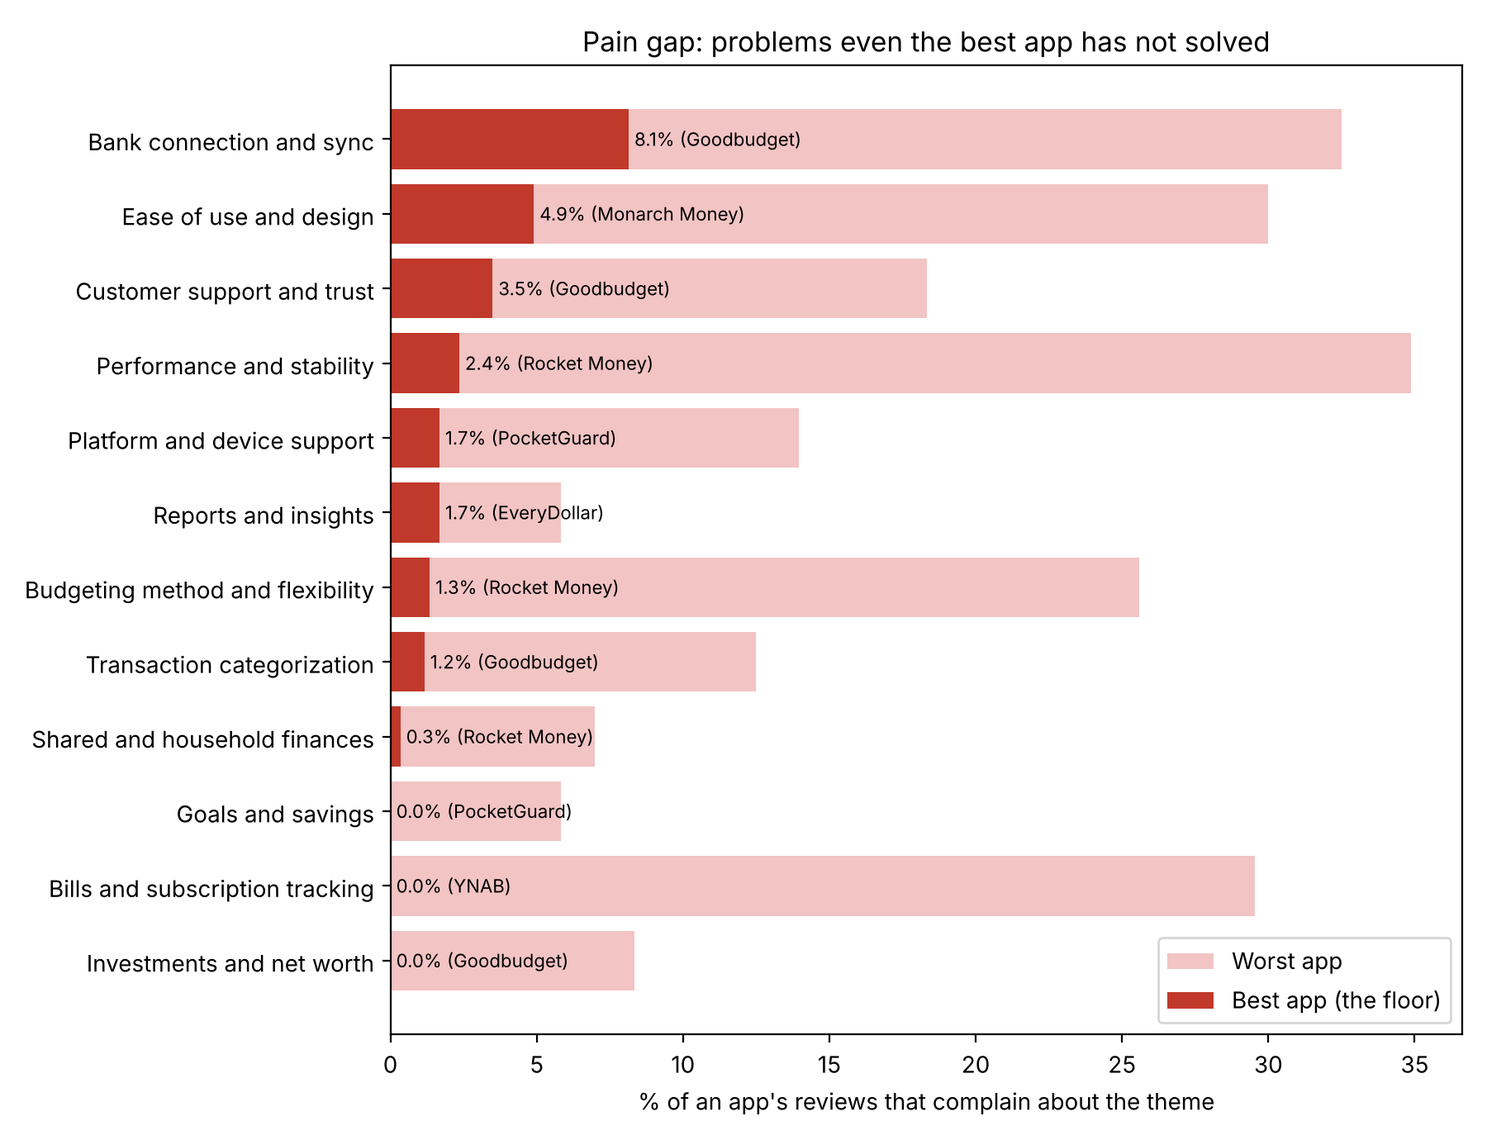
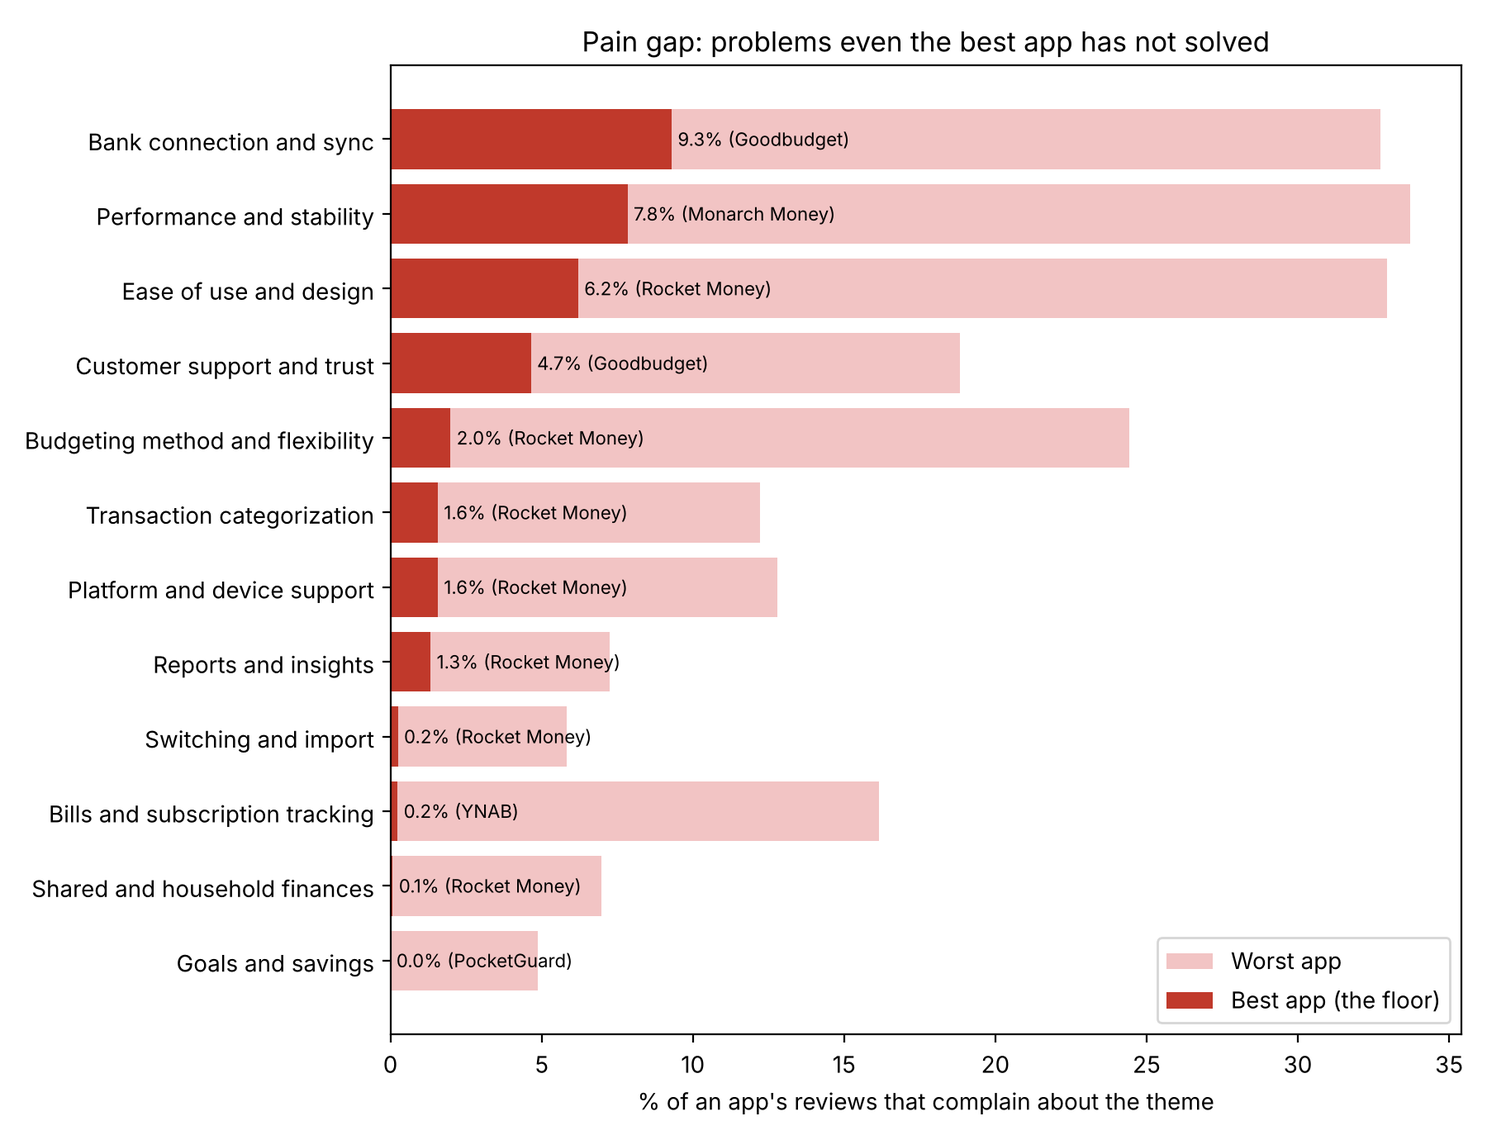
Update report with 3,392 tagged reviews and resume support
The full tagging run stopped after $6.09 when the API account ran out of
credit, leaving 2,550 API-tagged reviews. These are merged with the
in-session sample (3,392 total); 448 reviews tagged both ways give the
agreement rates now in the report. The analyze workflow now resumes from
earlier tags, and the reliability report no longer crashes when its
input is missing.

diff --git a/pipeline/reliability.py b/pipeline/reliability.py
@@ -35,6 +35,9 @@ def cohen_kappa(a: list[str], b: list[str]) -> float:
 
 
 def report() -> dict:
+    if not config.CHECK_FILE.exists():
+        print(f"No reliability tags in {config.CHECK_FILE.name} yet; nothing to compare.")
+        return {}
     p = read_jsonl(config.TAGS_FILE).set_index("review_id")
     c = read_jsonl(config.CHECK_FILE).set_index("review_id")
     both = p.join(c, lsuffix="_a", rsuffix="_b", how="inner")

diff --git a/reports/REPORT.md b/reports/REPORT.md
@@ -1,15 +1,15 @@
 # State of Budgeting Apps: what users still can't get, from 8 apps' reviews
 
-*4 November 2026. 7,396 App Store and Google Play reviews scraped for 8 budgeting apps (5 Nov 2025 to 3 Nov 2026). 1,290 of them were tagged, sampled across all 8 apps.*
+*4 November 2026. 7,396 App Store and Google Play reviews scraped for 8 budgeting apps (5 Nov 2025 to 3 Nov 2026). 3,392 of them were tagged.*
 
 ## Summary
 
-1. **Broken bank sync is the problem no app has solved.** It's the only theme complained about in more than 5% of reviews for every one of the 8 apps. The median is 15.5% of an app's reviews, ranging from 8.1% for Goodbudget, which is mostly manual entry, to 32.5% for Simplifi. Reviews that mention sync average 2.5 stars, against 3.3 for the rest.
-2. **Updates are breaking long-time users' routines.** 104 complaint reviews (8% of all tagged) blame a recent update or redesign. Examples are extra taps in YNAB, EveryDollar locking past months, and envelope totals breaking in Goodbudget. Long-time users are among the unhappiest: 64% of their reviews are complaints.
-3. **Users can't reach a human for support.** Support and trust complaints exceed 5% in 7 of 8 apps. Users mostly ask for a real person, not a chatbot, when money or data is at stake.
-4. **App-specific gaps sit on top of that.** Rocket Money's subscription cancelling underdelivers (29.5% of its reviews). EveryDollar and Goodbudget have budgeting-logic problems (21% and 26%). YNAB's changes to its interface draw complaints in 30% of its reviews.
+1. **Broken bank sync is the problem no app has solved.** It's the only theme in the top four for all 8 apps, and it's above 5% of reviews in every one. The median is 16.7% of an app's reviews, ranging from 9.3% for Goodbudget, which is mostly manual entry, to 32.7% for Simplifi. One review in five (676 of 3,392) is about sync, and those reviews average 2.5 stars against 3.4 for the rest.
+2. **Updates are breaking long-time users' routines.** 257 complaint reviews (7.6%) blame a recent update or redesign. They cluster in YNAB (72), EveryDollar (62) and Monarch (43). Ease-of-use complaints reach 32.9% of YNAB's reviews.
+3. **Users can't reach a human for support.** Support and trust complaints exceed 5% in 7 of 8 apps, and reach 18.8% for PocketGuard and Simplifi. The recurring ask is a real person, not a chatbot.
+4. **App-specific gaps sit on top of that.** Rocket Money's subscription cancelling underdelivers (16.2% of its reviews). Goodbudget and EveryDollar have bugs and budget-math problems (33.7% and 21.2% performance complaints). Copilot is iOS only.
 
-**Product bet: sync you can trust.** Warn users the moment a connection fails. Refill missing history after a reconnect. Remove duplicates automatically. And be honest about which banks work before people pay. It's the one gap every app shares, and much of the duplicate, missing-data and wrong-balance trouble traces back to it.
+**Product bet: sync you can trust.** Warn users the moment a connection fails. Refill missing history after a reconnect. Remove duplicates automatically. And say up front which banks work. It's the one gap every app shares, and much of the duplicate, missing-data and wrong-balance trouble traces back to it.
 
 *Pricing is left out on purpose. Price complaints appear for every paid app and don't point to a product gap. They are kept in the tags but excluded from the rankings and charts.*
 
@@ -17,27 +17,28 @@
 
 | App | Reviews scraped | Tagged | Avg rating (tagged) | Share of tagged that are pain |
 |---|---|---|---|---|
-| Monarch Money | 1,402 | 306 | 3.61 | 48% |
-| Rocket Money | 3,000 | 298 | 2.60 | 71% |
-| Copilot Money (iOS only) | 495 | 120 | 3.73 | 53% |
-| YNAB | 1,003 | 120 | 3.29 | 59% |
-| EveryDollar | 796 | 120 | 3.14 | 62% |
-| Simplifi by Quicken | 410 | 120 | 2.47 | 76% |
-| PocketGuard | 204 | 120 | 2.98 | 63% |
-| Goodbudget | 86 | 86 | 2.78 | 76% |
-| **Total** | **7,396** | **1,290** | | **62%** |
+| Rocket Money | 3,000 | 1,207 | 3.22 | 52% |
+| Monarch Money | 1,402 | 689 | 3.43 | 53% |
+| YNAB | 1,003 | 422 | 3.20 | 60% |
+| EveryDollar | 796 | 349 | 3.26 | 61% |
+| Copilot Money (iOS only) | 495 | 262 | 3.71 | 50% |
+| Simplifi by Quicken | 410 | 223 | 2.62 | 74% |
+| PocketGuard | 204 | 154 | 2.98 | 64% |
+| Goodbudget | 86 | 86 | 2.78 | 74% |
+| **Total** | **7,396** | **3,392** | | **57%** |
+
+Of the tagged reviews, 1,783 are from Google Play and 1,609 from the App Store.
 
 **Pain rate by theme:** the share of an app's tagged reviews that are negative or mixed about a theme, or report a bug, a missing feature or a complaint there.
 
 | Theme | Copilot | EveryDollar | Goodbudget | Monarch | PocketGuard | Rocket | Simplifi | YNAB | Median |
 |---|---|---|---|---|---|---|---|---|---|
-| **Bank connection and sync** | 19.2% | 12.5% | 8.1% | 17.6% | 26.7% | 9.4% | **32.5%** | 13.3% | **15.5%** |
-| Customer support and trust | 12.5% | 5.8% | 3.5% | 8.8% | **18.3%** | 15.1% | 15.8% | 6.7% | 10.7% |
-| Ease of use and design | 9.2% | 9.2% | 10.5% | 4.9% | 6.7% | 9.7% | 8.3% | **30.0%** | 9.2% |
-| Performance and stability | 11.7% | 7.5% | **34.9%** | 6.5% | 6.7% | 2.3% | 8.3% | 7.5% | 7.5% |
-| Budgeting method | 5.0% | 20.8% | **25.6%** | 5.2% | 5.8% | 1.3% | 7.5% | 12.5% | 6.7% |
-| Platform and devices | 5.0% | 10.8% | 14.0% | 4.6% | 1.7% | 3.0% | 9.2% | 5.0% | 5.0% |
-| Bills and subscriptions | 1.7% | 3.3% | 1.2% | 1.6% | 1.7% | **29.5%** | 10.8% | 0.0% | 1.7% |
+| **Bank connection and sync** | 20.2% | 13.2% | 9.3% | 19.4% | **27.9%** | 11.4% | **32.7%** | 14.0% | **16.7%** |
+| Ease of use and design | 11.5% | 14.6% | 15.1% | 6.4% | 8.4% | 6.2% | 11.2% | **32.9%** | 11.4% |
+| Customer support and trust | 12.2% | 8.0% | 4.7% | 10.3% | **18.8%** | 15.4% | **18.8%** | 9.5% | 11.3% |
+| Performance and stability | 9.9% | 21.2% | **33.7%** | 7.8% | 10.4% | 8.3% | 15.7% | 11.6% | 11.0% |
+| Budgeting method | 6.1% | 15.5% | **24.4%** | 5.1% | 4.5% | 2.0% | 7.2% | 9.5% | 6.7% |
+| Bills and subscriptions | 3.1% | 1.7% | 1.2% | 2.3% | 1.3% | **16.2%** | 9.4% | 0.2% | 2.0% |
 
 Charts: `figures/pain_gap.png`, `figures/heatmap.png`. Tables: `pain_gap.csv`, `theme_by_app.csv`.
 
@@ -45,7 +46,7 @@ Charts: `figures/pain_gap.png`, `figures/heatmap.png`. Tables: `pain_gap.csv`, `
 
 ### 1. Bank sync, the floor no one has fixed
 
-250 of the 1,290 tagged reviews (19%) are about bank connections. The complaints repeat across apps: accounts silently disconnect, transactions arrive days late or not at all, reconnecting creates duplicates or wipes history, and some banks just aren't supported. 19 of the sync complaints say the app blamed Plaid, a third party or a "known issue".
+The complaints repeat across apps: accounts silently disconnect, transactions arrive days late or not at all, reconnecting creates duplicates or wipes history, and some banks aren't supported at all. Several reviews say support blamed Plaid, a third party or a "known issue".
 
 - "The team unfortunately never advises customers that they are having issues" (PocketGuard, `pocketguard:a:14485863334`)
 - "No notice in the app that it happened" (Copilot, `copilot:a:14709853188`)
@@ -63,51 +64,49 @@ Charts: `figures/pain_gap.png`, `figures/heatmap.png`. Tables: `pain_gap.csv`, `
 - refill the gap after I reconnect
 - remove duplicates for me
 - tell me before I pay whether my bank, credit union, Venmo, Cash App or store card works
-- support non-US banks and multiple currencies, which international users ask for in 18 reviews
+- support non-US banks and multiple currencies
 
 ### 2. Updates that break what worked
-
-Every app has some reviews like this, but they cluster in YNAB (25 of 120 tagged), EveryDollar (17) and Goodbudget (15 of 86).
 
 - "More scrolling and more taps for what used to take one tap" (YNAB, `ynab:a:14158438732`)
 - "locked out their customers from their OWN budgets with their latest update" (EveryDollar, `everydollar:g:762973c6-7716-44ad-9f0b-f0239202fa9b`)
 - "But since it's last upgrade nothing works" (Goodbudget, `goodbudget:g:27a0cf11-aa5d-4792-b32c-9764d74a8c51`)
 - "Why release an update when 2/3 of the tools aren’t even completed?" (PocketGuard, `pocketguard:a:14453021311`)
 
-**The unmet need:** stability for loyal users. That means testing before release, a way to keep the old layout, and no locking of data the user still wants to edit. EveryDollar's past-month lock alone produced 8 requests to "edit past months".
+**The unmet need:** stability for loyal users. That means testing before release, a way to keep the old layout, and no locking of data the user still wants to edit.
 
 ### 3. Support that can't escalate
 
 - "a Chatbot is not enough to help me" (Simplifi, `simplifi:a:14667818169`)
 
-When a bank link or the budget's numbers break, users want a ticket that a person actually picks up. Requests for "human support" come from 6 of the 8 apps.
+When a bank link or the budget's numbers break, users want a ticket that a person actually picks up.
 
 ### 4. App-specific gaps
 
-- **Rocket Money:** subscription detection and cancellation miss many subscriptions (29.5%). The top requests are "working subscription cancellation" (19) and "detect all subscriptions" (12).
-- **EveryDollar and Goodbudget:** problems with budget logic and envelope math. Examples: savings that don't reduce what's left to spend, totals that don't add up, recurring items that can't be scheduled.
-- **YNAB:** churn in the interface (30% ease-of-use complaints). Users ask for the progress bars back and fewer taps.
+- **Rocket Money:** subscription detection and cancellation miss many subscriptions (16.2% overall; higher among App Store reviewers).
+- **Goodbudget and EveryDollar:** envelope totals and budget math break after updates, and EveryDollar's locked past months draw repeated complaints.
+- **YNAB:** churn in the interface (32.9% ease-of-use complaints). Users ask for the progress bars back and fewer taps.
 - **Copilot:** iOS only, and users ask for Android. It also has gaps tracking income categories and investment contributions.
 
 ### Who's happiest
 
-- **Copilot** has the highest average rating (3.73) and **Monarch** has the lowest share of complaints (48%).
-- **Former Mint users** (42 tagged reviews) still choose an app by comparing it with Mint. **Couples** (56) value shared budgets but ask for joint and individual views and per-person roles.
+Copilot has the highest average rating (3.71) and the lowest share of complaints (50%). Former Mint users and couples are the most vocal segments: Mint is still the benchmark they compare apps with, and couples want joint and individual views plus per-person roles.
 
 ## Method
 
-1. **Collection.** A GitHub Actions workflow (`.github/workflows/scrape.yml`) runs `pipeline.find_ids` and `pipeline.scrape` on a GitHub runner. That's needed because this cloud session can't reach the app stores. It pulled the Apple customer-reviews feed from 7 English-language storefronts and Google Play (en, US) for the last 12 months. Store IDs were checked by hand (`config/apps.json`) after the first run picked wrong Google Play packages. Cleaning removed duplicates and reviews under 20 characters, leaving 7,396 reviews.
-2. **Sample.** No Anthropic API key was available, so the full tagging run (`pipeline.tag`) couldn't run. Claude tagged a seeded random sample by reading each review in the working session: up to 120 reviews for each of six apps, all 86 for Goodbudget, and 60 Google Play reviews each for Monarch and Rocket Money. These were added to 484 App Store reviews tagged earlier for those two apps. Tags follow the frozen 15-theme codebook (`config/themes.json`) and the `pipeline.tag` schema.
-3. **Analysis.** `python -m pipeline.analyze`. Pricing and "other" are excluded from the rankings. Every quote was checked word for word against its source review.
+1. **Collection.** A GitHub Actions workflow (`.github/workflows/scrape.yml`) runs `pipeline.find_ids` and `pipeline.scrape` on a GitHub runner. That's needed because this cloud session can't reach the app stores. It pulled the Apple customer-reviews feed from 7 English-language storefronts and Google Play (en, US) for the last 12 months. Store IDs were checked by hand (`config/apps.json`). Cleaning removed duplicates and reviews under 20 characters, leaving 7,396 reviews.
+2. **Tagging.** 2,550 reviews were tagged by `pipeline.tag` with `claude-opus-5-5` in the `analyze.yml` workflow, at a cost of $6.09. The run stopped when the API account's credit ran out. Another 842 reviews come from a seeded sample that Claude tagged by reading each review in the working session. All tags use the frozen 15-theme codebook (`config/themes.json`). Where a review had both, the API tag is used.
+3. **Reliability.** 448 reviews were tagged both ways, independently. The two agree on primary theme 80% of the time (Cohen's kappa 0.78), on sentiment 94% (kappa 0.89) and on review type 90% (kappa 0.87). Kappa is agreement after removing what chance alone would give; above 0.6 counts as substantial and above 0.8 as almost perfect.
+4. **Analysis.** `python -m pipeline.analyze`. Pricing and "other" are excluded from the rankings. Every quote was checked word for word against its source review.
 
 ## Limits
 
-- **This is a sample.** Most apps have about 120 tagged reviews, so a rate like 15% carries a margin of roughly ±6 points. The pattern holds, since sync shows up in all 8 apps, but small gaps between apps don't mean much.
-- **Unequal samples.** Monarch and Rocket Money have more tagged reviews (306 and 298), mostly from the App Store. The other apps mix both stores.
-- **One tagger, no reliability check.** The second-model check (`pipeline.reliability`) needs an API key.
-- **Free sources cap volume.** Apple's feed returns at most about 500 reviews per storefront, and PocketGuard and Goodbudget had few reviews in the 12-month window.
+- **Not every review is tagged.** 3,392 of the 7,396 are, and Goodbudget (86) and PocketGuard (154) have small samples, so small gaps between apps don't mean much. The cross-app pattern holds: sync is above 5% in all 8 apps.
+- **Uneven samples.** Rocket Money makes up 36% of tagged reviews. Rates are calculated per app, so this doesn't skew comparisons between apps, but category-wide totals lean toward Rocket Money.
+- **No synthesis briefs.** The per-theme briefs from `pipeline.synthesize` didn't run because the credit ran out. The briefs above were written by hand from the tagged data.
+- **Free sources cap volume.** Apple's feed returns at most about 500 reviews per storefront.
 - **Review bias.** App-store reviewers lean toward the very unhappy and the very happy.
 
-## Full-scale run
+## To finish the full run
 
-Add `ANTHROPIC_API_KEY` as a secret in the GitHub repo, then run tagging, reliability and synthesis on all 7,396 reviews. That replaces the sample with full counts and adds an agreement rate you can quote.
+Add API credit, then re-run the "Tag and analyze all reviews" workflow. It keeps the 2,550 reviews already tagged and pays only for the other 4,846. At the rate seen so far that's about $12 for tagging, plus roughly $4 for the reliability check and synthesis.

diff --git a/reports/summary.md b/reports/summary.md
@@ -1,34 +1,34 @@
 # Summary numbers
 
-- Reviews analyzed: **1,290** across **8** apps (Copilot Money, EveryDollar, Goodbudget, Monarch Money, PocketGuard, Rocket Money, Simplifi by Quicken, YNAB)
+- Reviews analyzed: **3,392** across **8** apps (Copilot Money, EveryDollar, Goodbudget, Monarch Money, PocketGuard, Rocket Money, Simplifi by Quicken, YNAB)
 - Date range: 2025-11-05 to 2026-11-03
-- Stores: appstore 914, play 376
-- Pain reviews (negative/mixed, bug, request or complaint): 61.9%
+- Stores: play 1,783, appstore 1,609
+- Pain reviews (negative/mixed, bug, request or complaint): 56.5%
 
 ## Pain gap (sorted by the best app's complaint rate)
 
 | theme                | theme_name                       |   pain_reviews |   category_pain_rate | best_app    |   best_app_rate | worst_app   |   worst_app_rate |   feature_requests |   avg_rating_when_mentioned |
 |:---------------------|:---------------------------------|---------------:|---------------------:|:------------|----------------:|:------------|-----------------:|-------------------:|----------------------------:|
-| bank_sync            | Bank connection and sync         |            214 |               0.1659 | goodbudget  |          0.0814 | simplifi    |           0.325  |                 17 |                        2.47 |
-| ux_ease              | Ease of use and design           |            129 |               0.1    | monarch     |          0.049  | ynab        |           0.3    |                 12 |                        3.23 |
-| support_trust        | Customer support and trust       |            146 |               0.1132 | goodbudget  |          0.0349 | pocketguard |           0.1833 |                  4 |                        1.95 |
-| performance_bugs     | Performance and stability        |            107 |               0.0829 | rocketmoney |          0.0235 | goodbudget  |           0.3488 |                  1 |                        2.13 |
-| platform_access      | Platform and device support      |             73 |               0.0566 | pocketguard |          0.0167 | goodbudget  |           0.1395 |                 25 |                        2.8  |
-| reports_insights     | Reports and insights             |             54 |               0.0419 | everydollar |          0.0167 | pocketguard |           0.0583 |                 18 |                        4.04 |
-| budgeting_method     | Budgeting method and flexibility |            104 |               0.0806 | rocketmoney |          0.0134 | goodbudget  |           0.2558 |                 27 |                        3.63 |
-| categorization       | Transaction categorization       |             58 |               0.045  | goodbudget  |          0.0116 | simplifi    |           0.125  |                 20 |                        3.49 |
-| shared_finances      | Shared and household finances    |             25 |               0.0194 | rocketmoney |          0.0034 | goodbudget  |           0.0698 |                  7 |                        3.92 |
-| goals_savings        | Goals and savings                |             26 |               0.0202 | pocketguard |          0      | everydollar |           0.0583 |                 10 |                        4.09 |
-| bills_subscriptions  | Bills and subscription tracking  |            115 |               0.0891 | ynab        |          0      | rocketmoney |           0.2953 |                 14 |                        2.48 |
-| investments_networth | Investments and net worth        |             33 |               0.0256 | goodbudget  |          0      | simplifi    |           0.0833 |                 13 |                        3.78 |
-| migration            | Switching and import             |             14 |               0.0109 | ynab        |          0      | simplifi    |           0.025  |                  3 |                        3.98 |
+| bank_sync            | Bank connection and sync         |            553 |               0.163  | goodbudget  |          0.093  | simplifi    |           0.3274 |                 61 |                        2.47 |
+| performance_bugs     | Performance and stability        |            383 |               0.1129 | monarch     |          0.0784 | goodbudget  |           0.3372 |                 13 |                        1.98 |
+| ux_ease              | Ease of use and design           |            390 |               0.115  | rocketmoney |          0.0621 | ynab        |           0.3294 |                 65 |                        3.55 |
+| support_trust        | Customer support and trust       |            432 |               0.1274 | goodbudget  |          0.0465 | simplifi    |           0.1883 |                 11 |                        1.96 |
+| budgeting_method     | Budgeting method and flexibility |            213 |               0.0628 | rocketmoney |          0.0199 | goodbudget  |           0.2442 |                 67 |                        3.87 |
+| categorization       | Transaction categorization       |            143 |               0.0422 | rocketmoney |          0.0157 | copilot     |           0.1221 |                 52 |                        3.42 |
+| platform_access      | Platform and device support      |            123 |               0.0363 | rocketmoney |          0.0157 | goodbudget  |           0.1279 |                 41 |                        2.93 |
+| reports_insights     | Reports and insights             |            113 |               0.0333 | rocketmoney |          0.0133 | copilot     |           0.0725 |                 48 |                        4.35 |
+| migration            | Switching and import             |             47 |               0.0139 | rocketmoney |          0.0025 | simplifi    |           0.0583 |                 17 |                        4.12 |
+| bills_subscriptions  | Bills and subscription tracking  |            250 |               0.0737 | ynab        |          0.0024 | rocketmoney |           0.1616 |                 38 |                        3.22 |
+| shared_finances      | Shared and household finances    |             46 |               0.0136 | rocketmoney |          0.0008 | goodbudget  |           0.0698 |                 18 |                        4.17 |
+| goals_savings        | Goals and savings                |             70 |               0.0206 | pocketguard |          0      | everydollar |           0.0487 |                 29 |                        4.35 |
+| investments_networth | Investments and net worth        |             68 |               0.02   | goodbudget  |          0      | simplifi    |           0.0717 |                 26 |                        3.77 |
 
 ## Growing complaints (last 3 months vs earlier)
 
 |                     |   recent_share |   earlier_share |   change_pts |
 |:--------------------|---------------:|----------------:|-------------:|
-| bills_subscriptions |         0.1434 |          0.0383 |        10.52 |
-| support_trust       |         0.1333 |          0.1001 |         3.32 |
-| ux_ease             |         0.1    |          0.1126 |        -1.25 |
-| performance_bugs    |         0.0654 |          0.0952 |        -2.99 |
-| bank_sync           |         0.1413 |          0.1874 |        -4.61 |
+| bills_subscriptions |         0.1032 |          0.0555 |         4.76 |
+| support_trust       |         0.1422 |          0.124  |         1.82 |
+| performance_bugs    |         0.1159 |          0.1166 |        -0.08 |
+| bank_sync           |         0.1485 |          0.1655 |        -1.7  |
+| ux_ease             |         0.0938 |          0.1171 |        -2.33 |
